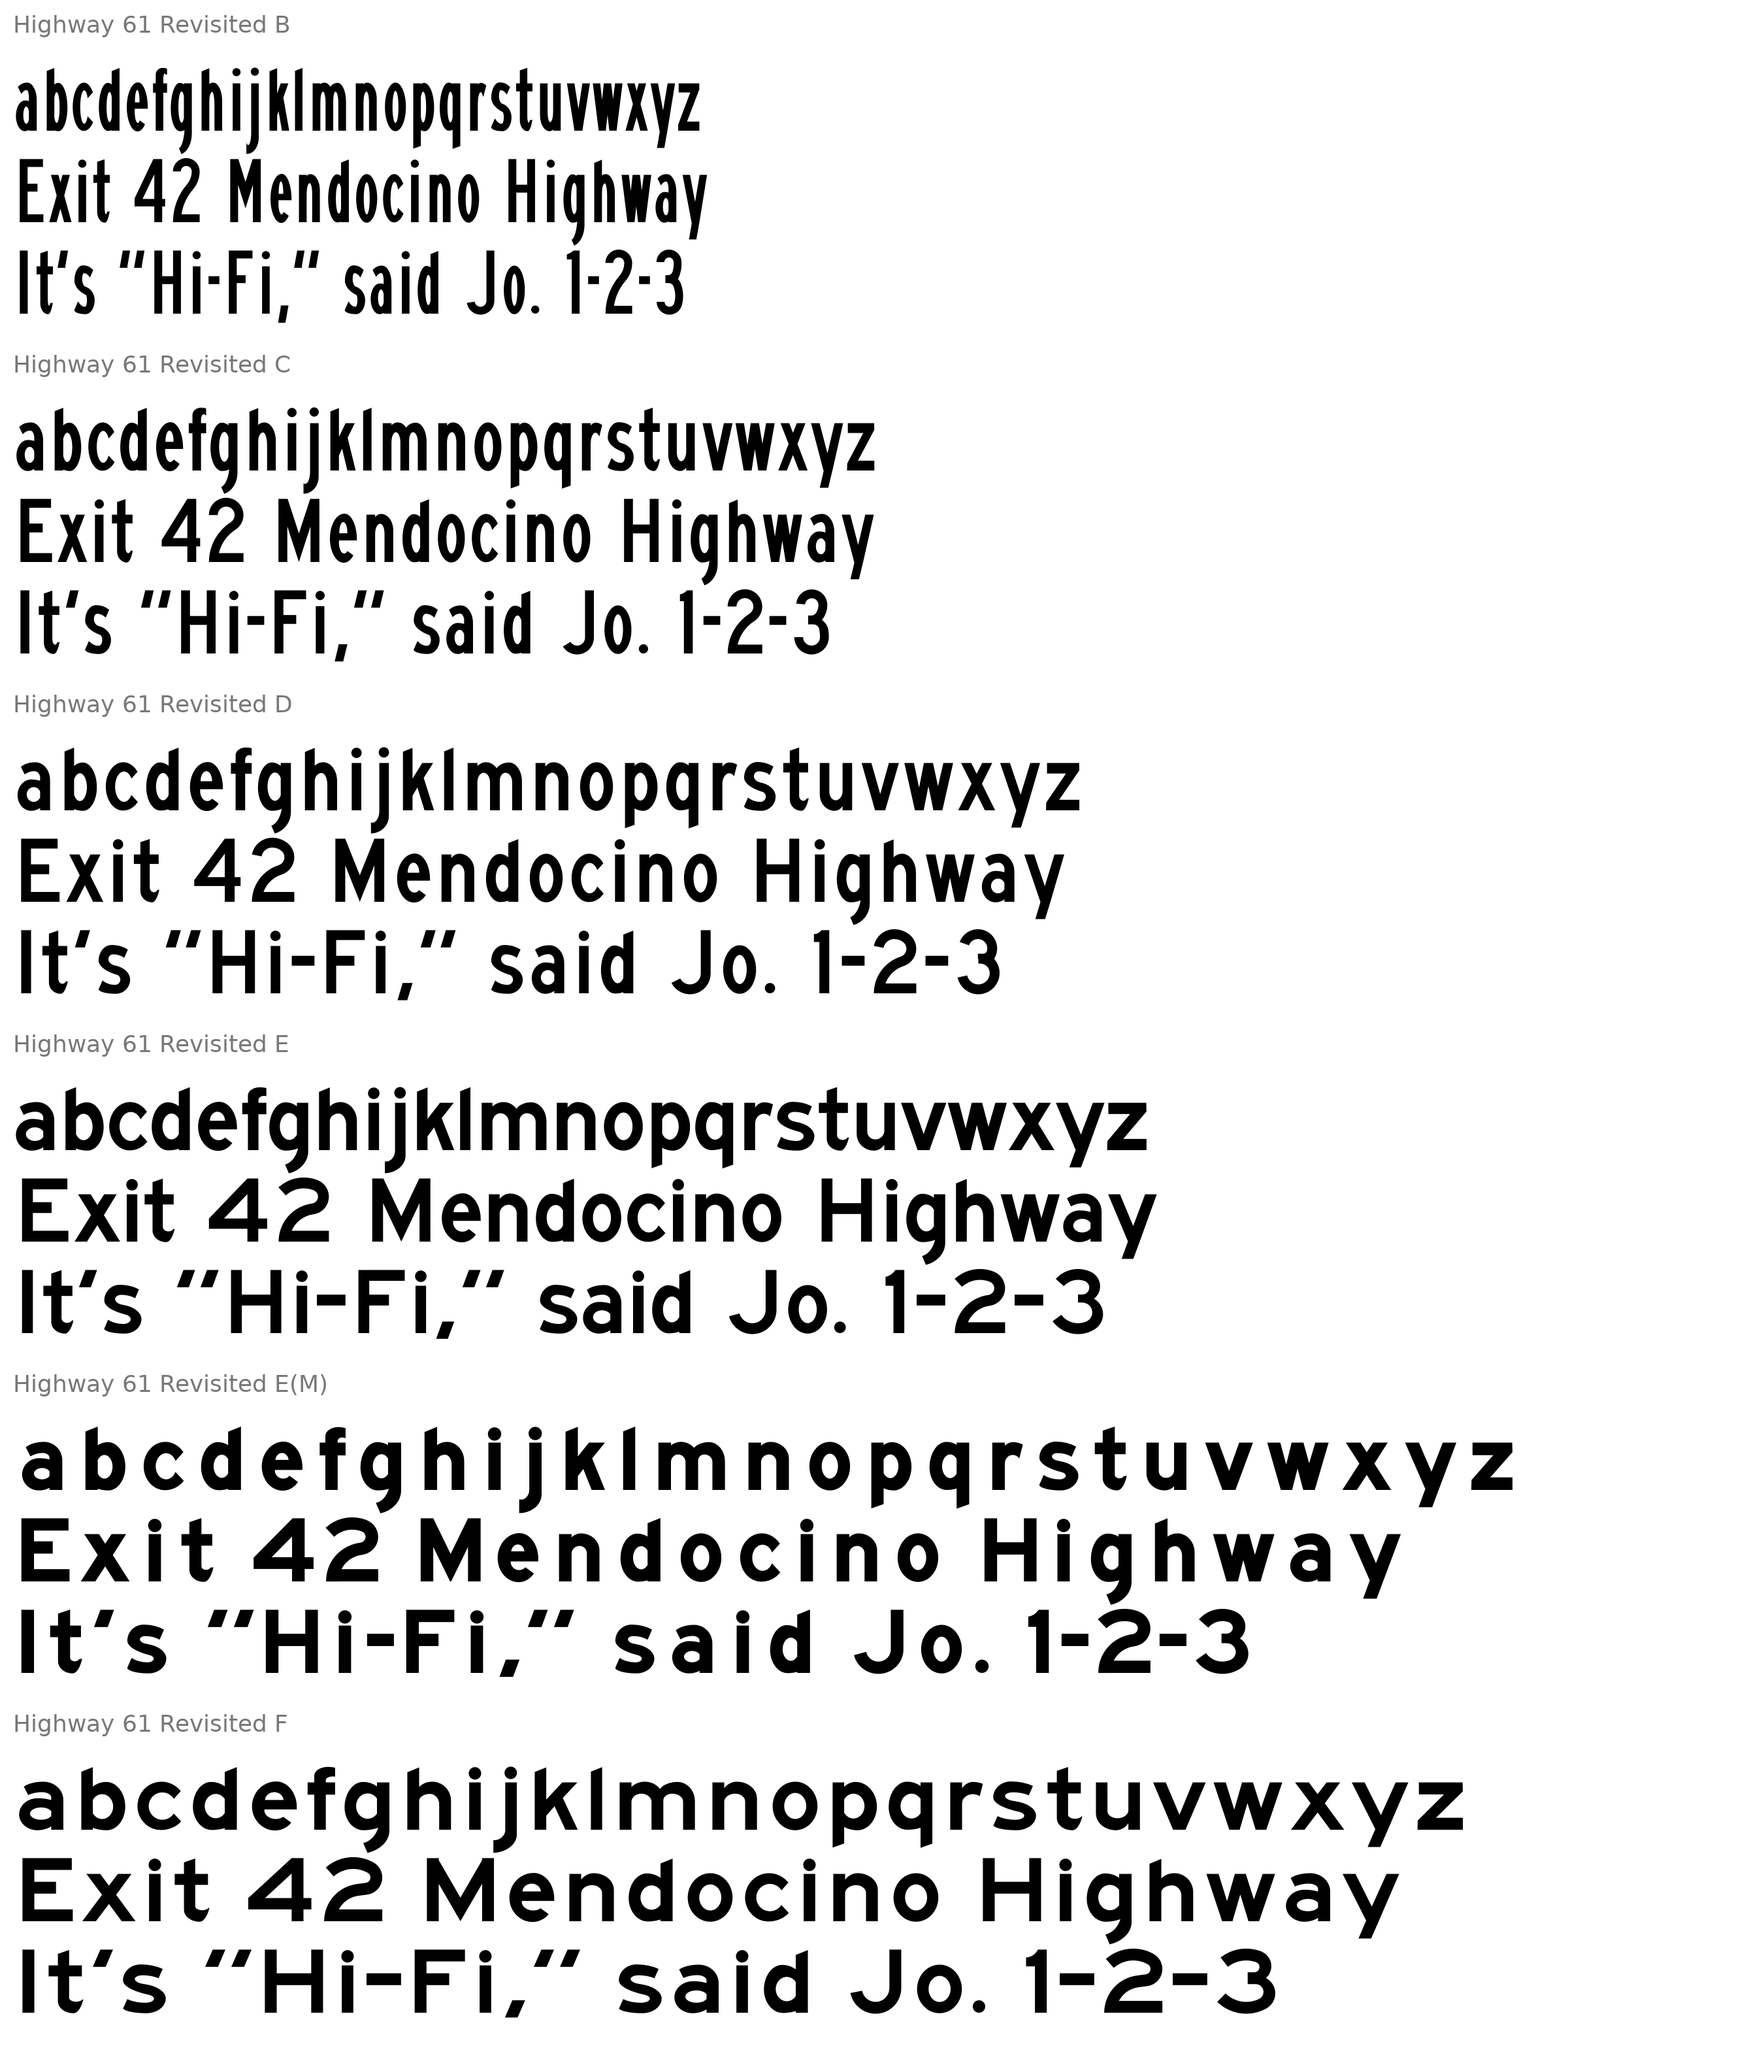
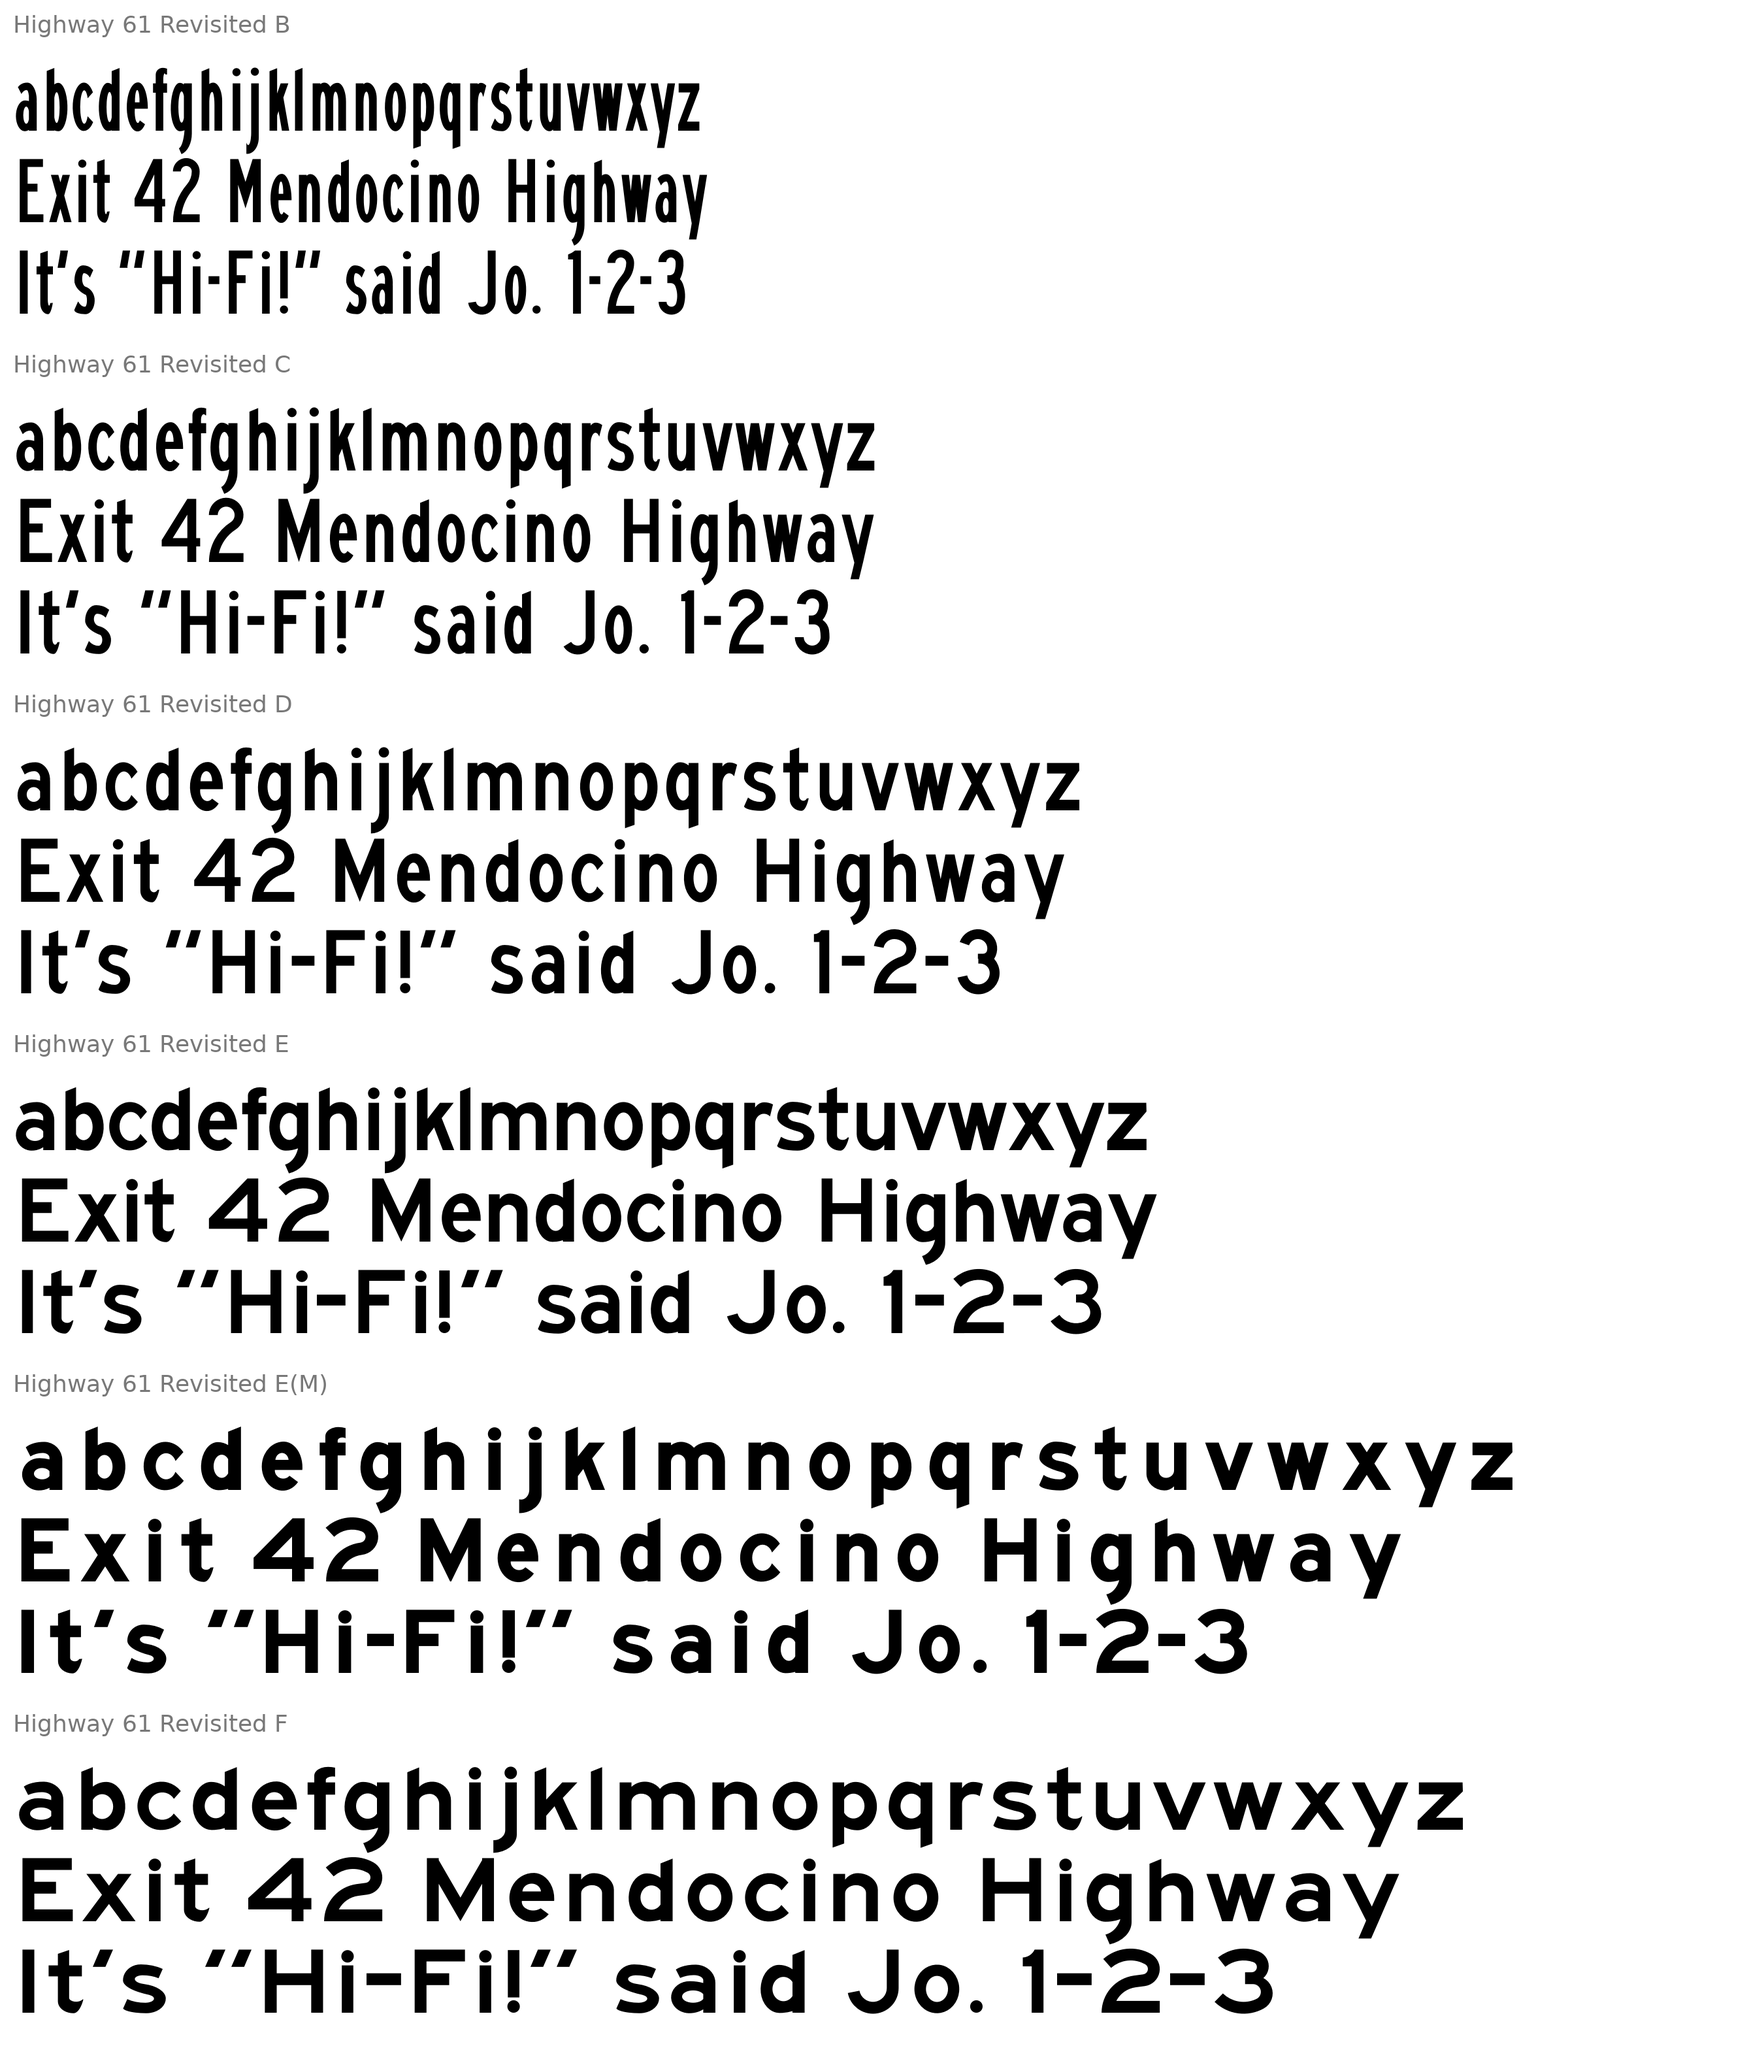
Apostrophe from the raised comma, exclamation point from the inverted i
quoteright/quotesingle (and the double quotes built from them) are now the
comma raised to the cap line; quoteleft is the comma turned 180 degrees.
exclam is the i turned upside down with its dot on the baseline.

Claude-Session: https://claude.ai/code/session_01XskEBfdJQTrEgufDyH5qk6

diff --git a/highway1966/work/punct.py b/highway1966/work/punct.py
@@ -1,8 +1,9 @@
 """Punctuation made from the letters of each font (lines and circles only, so exact):
   period       the i's dot, set on the baseline
   comma        the y's tail below the baseline, raised so its top is level with the period's top
-  quoteright / quotesingle   the comma turned through 180 degrees, its top on the cap line
-  quoteleft    the comma itself, its top on the cap line
+  quoteright / quotesingle   the comma raised so its top is on the cap line
+  quoteleft    the comma turned through 180 degrees, its top on the cap line
+  exclam       the i turned upside down, its dot on the baseline
   quotedblright / quotedbl, quotedblleft   two of those, a stroke apart
   hyphen       the H's crossbar between the stems, at the crossbar's height
 make(glyph_polygon) -> {glyph name: strokeop segment contours}; glyph_polygon(name) gives a shapely geometry."""
@@ -40,9 +41,13 @@ def make(poly):
     tail=max(getattr(tail,'geoms',[tail]),key=lambda p:p.area)
     comma=affinity.translate(tail,0,2*r)                 # top level with the period's top
     out['comma']=_segs(comma)
-    apo=affinity.rotate(comma,180,origin=comma.centroid)
-    apo=affinity.translate(apo,0,CAP-apo.bounds[3]); out['quoteright']=_segs(apo); out['quotesingle']=out['quoteright']
-    ql=affinity.translate(comma,0,CAP-comma.bounds[3]); out['quoteleft']=_segs(ql)
+    apo=affinity.translate(comma,0,CAP-comma.bounds[3]); out['quoteright']=_segs(apo); out['quotesingle']=out['quoteright']
+    ql=affinity.rotate(comma,180,origin=comma.centroid)
+    ql=affinity.translate(ql,0,CAP-ql.bounds[3]); out['quoteleft']=_segs(ql)
+    # exclamation point: the i turned upside down, its dot on the baseline
+    gi=poly('i'); ex=affinity.rotate(gi,180,origin=gi.centroid); ex=affinity.translate(ex,0,-ex.bounds[1])
+    dot=min(getattr(ex,'geoms',[ex]),key=lambda p:p.bounds[1]); x0,y0,x1,y1=dot.bounds
+    out['exclam']=_segs(ex,[((x0+x1)/2,(y0+y1)/2,(x1-x0)/2,(y1-y0)/2)])
     w=apo.bounds[2]-apo.bounds[0]; xl,xr,yb,yt=_crossbar(poly('H')); T=yt-yb
     gap=w+0.5*T                                            # side by side, half a stroke apart
     out['quotedblright']=_segs(apo|affinity.translate(apo,gap,0)); out['quotedbl']=out['quotedblright']

diff --git a/highway1966/HANDOFF.md b/highway1966/HANDOFF.md
@@ -275,7 +275,8 @@ ends keep their angles.
   C 50.7, D 56.5, F 68.1), the dot's top kept on the ascender line (`strokeop.condense2(dot_scale=...)`).
 - `punct.py`, used by `build1961.py` for every series: period = the font's i dot on the baseline; comma = the y's
   tail below the baseline, raised so its top is level with the period's top; quoteright and quotesingle = the comma
-  turned 180 degrees with its top on the cap line; quoteleft = the comma with its top on the cap line; quotedbl,
+  raised so its top is on the cap line; quoteleft = the comma turned 180 degrees with its top on the cap line;
+  exclam = the i turned upside down, its dot on the baseline; quotedbl,
   quotedblright, quotedblleft = two of those, half a cap stroke apart; hyphen = the H's crossbar between the stems.
   All are lines and circles (exact).  Side bearings from the base fonts' glyphs.
 
